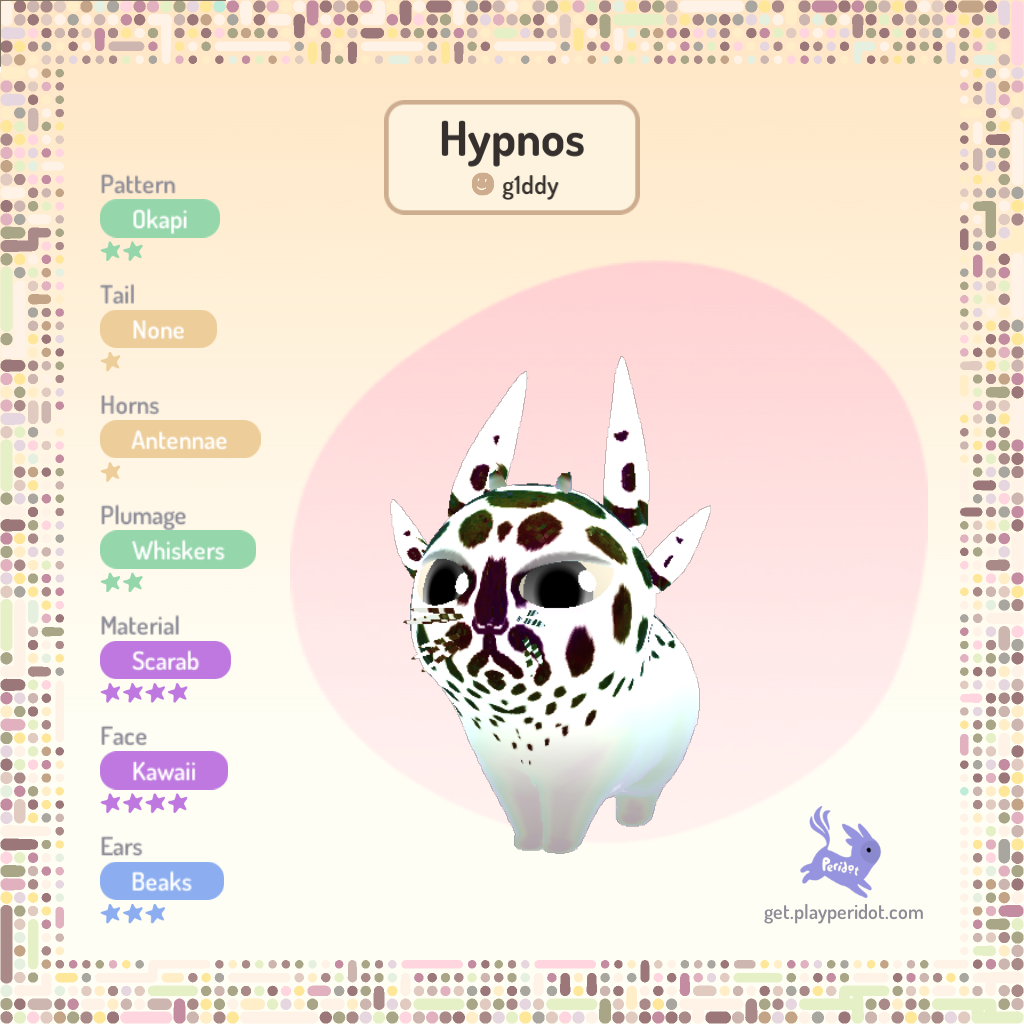
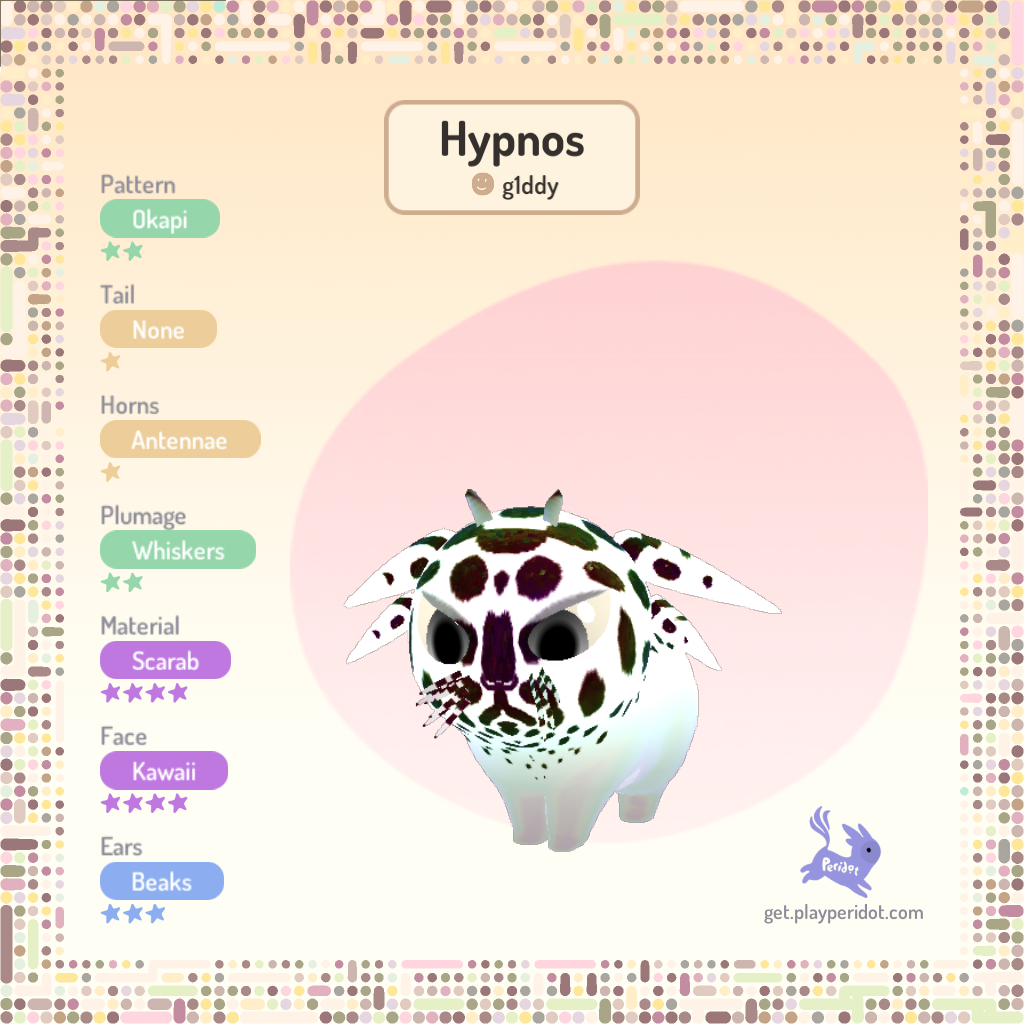
update child img, remove achieved AT and target list scarab AT

Changed region(s): [[0.3438, 0.3438, 0.75, 0.7812], [0.5625, 0.7812, 0.625, 0.8125], [0.5, 0.8125, 0.5625, 0.8438]]

diff --git a/Peridot-ArchetypeFinder-Scarab.md b/Peridot-ArchetypeFinder-Scarab.md
@@ -4,17 +4,12 @@
 | :----- | :--- | :--- | :------- | :------- | :------ | :----------- | :--- |
 | Scarab |      |      | Antennae | Scarab   | Okapi   | Beetle Wings | None |
 
-## Peridot: Slushy, Score: 0.2
+## Peridot: Hypnos, Score: 0.8
 
 ### Peridot Traits:
-| Name   | Ear  | Face    | Horn    | Material | Pattern | Plumage | Tail |
-| :----- | :--- | :------ | :------ | :------- | :------ | :------ | :--- |
-| Slushy | Bear | Octopus | Narwhal | Furry    | Breezy  | Spades  | None |
-
-### Compatibility Table:
-| Name         | Ear  | Face | Horn    | Material | Pattern | Plumage | Tail |
-| :----------- | :--- | :--- | :------ | :------- | :------ | :------ | :--- |
-| Cotton Candy |      |      | Narwhal | Furry    |         |         |      |
+| Name   | Ear   | Face   | Horn     | Material | Pattern | Plumage  | Tail |
+| :----- | :---- | :----- | :------- | :------- | :------ | :------- | :--- |
+| Hypnos | Beaks | Kawaii | Antennae | Scarab   | Okapi   | Whiskers | None |
 
 ## Peridot: Jax, Score: 0.2
 
@@ -40,4 +35,16 @@
 | :-------- | :---- | :--- | :--- | :-------- | :------------ | :------ | :--- |
 | Clownfish |       |      |      |           | Tropical Fish |         |      |
 | Glam      | Picks | Star |      | Bedazzled |               | Curls   | None |
+
+## Peridot: Slushy, Score: 0.2
+
+### Peridot Traits:
+| Name   | Ear  | Face    | Horn    | Material | Pattern | Plumage | Tail |
+| :----- | :--- | :------ | :------ | :------- | :------ | :------ | :--- |
+| Slushy | Bear | Octopus | Narwhal | Furry    | Breezy  | Spades  | None |
+
+### Compatibility Table:
+| Name         | Ear  | Face | Horn    | Material | Pattern | Plumage | Tail |
+| :----------- | :--- | :--- | :------ | :------- | :------ | :------ | :--- |
+| Cotton Candy |      |      | Narwhal | Furry    |         |         |      |
 
